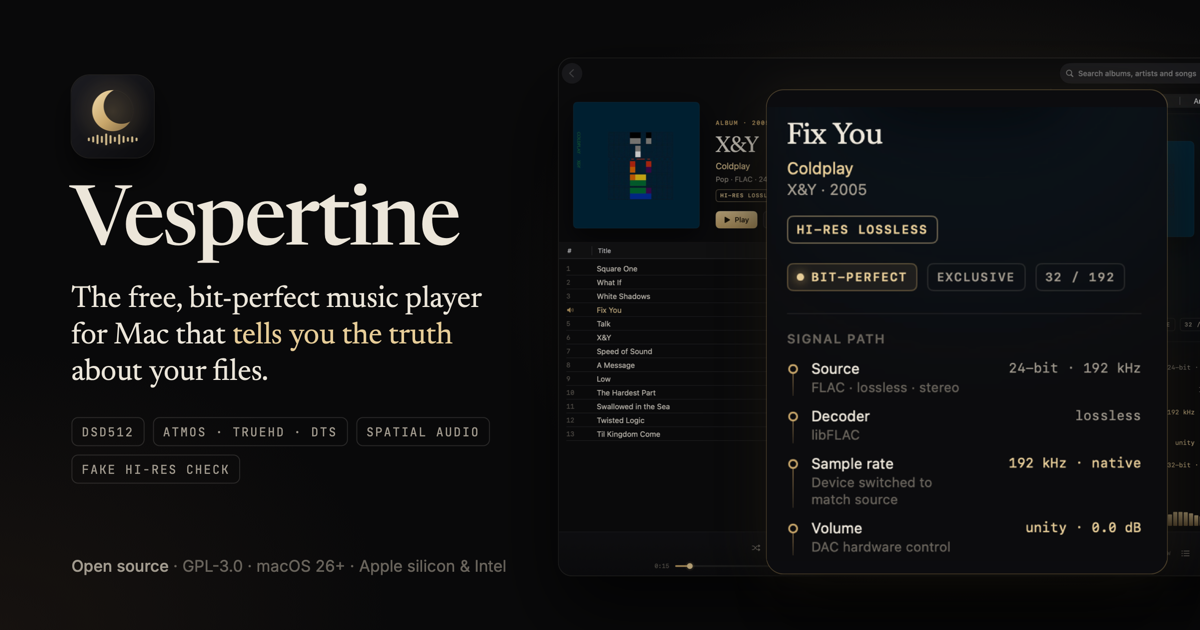
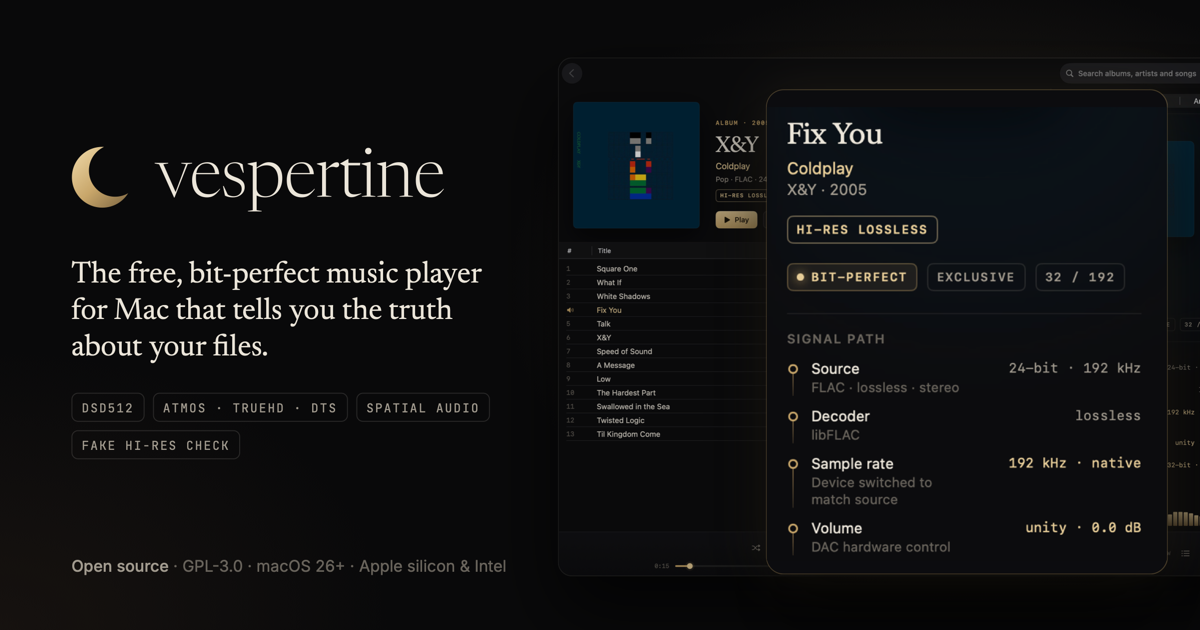
Adopt the brand lockup across the README, website, social cards and tour
- The README header is the lockup (crescent + "vespertine"), with
  logo-on-light.svg for GitHub's light theme and logo.svg for dark.
- Website: the lockup is in the header of every page. The hero headline is
  Newsreader Light, the brand's display weight, and is ivory, so the Download
  button is the view's one brass accent, as the guide asks.
- The social cards lead with the lockup, enlarged and aligned on the crescent.
  Their tagline is ivory now.
- The tour's closing card uses the lockup instead of the app icon and the
  typed name.
- The Newsreader faces declare 300–500. The self-hosted file is the full
  variable font, so Light was already in it.

Changed region(s): [[0.0617, 0.1206, 0.4008, 0.6032], [0.0617, 0.6333, 0.2775, 0.754], [0.3083, 0.6333, 0.4008, 0.6937]]

diff --git a/site/style.css b/site/style.css
@@ -1,7 +1,7 @@
 /* Vespertine site. The brand fonts (Newsreader, Inter, JetBrains Mono; SIL Open Font License) are self-hosted,
    so the site looks the same everywhere and makes no third-party requests apart from GitHub's API for the
    latest version. */
-@font-face { font-family: "Newsreader"; font-weight: 400 500; font-display: swap; src: url(assets/fonts/Newsreader.woff2) format("woff2"); unicode-range: U+0000-00FF, U+0131, U+0152-0153, U+02BB-02BC, U+02C6, U+02DA, U+02DC, U+0304, U+0308, U+0329, U+2000-206F, U+20AC, U+2122, U+2191, U+2193, U+2212, U+2215, U+FEFF, U+FFFD; }
+@font-face { font-family: "Newsreader"; font-weight: 300 500; font-display: swap; src: url(assets/fonts/Newsreader.woff2) format("woff2"); unicode-range: U+0000-00FF, U+0131, U+0152-0153, U+02BB-02BC, U+02C6, U+02DA, U+02DC, U+0304, U+0308, U+0329, U+2000-206F, U+20AC, U+2122, U+2191, U+2193, U+2212, U+2215, U+FEFF, U+FFFD; }
 @font-face { font-family: "Inter"; font-weight: 400 600; font-display: swap; src: url(assets/fonts/Inter.woff2) format("woff2"); unicode-range: U+0000-00FF, U+0131, U+0152-0153, U+02BB-02BC, U+02C6, U+02DA, U+02DC, U+0304, U+0308, U+0329, U+2000-206F, U+20AC, U+2122, U+2191, U+2193, U+2212, U+2215, U+FEFF, U+FFFD; }
 @font-face { font-family: "JetBrains Mono"; font-weight: 400 500; font-display: swap; src: url(assets/fonts/JetBrainsMono.woff2) format("woff2"); unicode-range: U+0000-00FF, U+0131, U+0152-0153, U+02BB-02BC, U+02C6, U+02DA, U+02DC, U+0304, U+0308, U+0329, U+2000-206F, U+20AC, U+2122, U+2191, U+2193, U+2212, U+2215, U+FEFF, U+FFFD; }
 
@@ -37,8 +37,9 @@ header.nav {
   background: rgba(9, 9, 10, 0.72); border-bottom: 1px solid var(--hair);
 }
 .nav .wrap { display: flex; align-items: center; gap: 28px; height: 58px; }
-.brand { display: flex; align-items: center; gap: 10px; color: var(--text); font: 500 19px/1 var(--serif); }
-.brand img { width: 28px; height: 28px; border-radius: 7px; }
+.brand { display: flex; align-items: center; }
+/* The brand lockup; its SVG carries clear space, so pull it back to the column edge. */
+.brand img { height: 44px; width: auto; margin-left: -11px; }
 .brand:hover { text-decoration: none; }
 .nav nav { display: flex; gap: 22px; margin-left: auto; font-size: 14.5px; }
 .nav nav a { color: var(--text2); }
@@ -63,9 +64,9 @@ header.nav {
 }
 .hero-icon { width: 104px; height: 104px; margin: 0 auto 30px; border-radius: 23px; box-shadow: 0 0 0 1px var(--hair2), 0 24px 48px rgba(0,0,0,.6); }
 .hero h1 {
-  position: relative; font: 500 clamp(44px, 7.4vw, 82px)/1.02 var(--serif); letter-spacing: -0.02em; margin: 0 auto; max-width: 900px;
+  position: relative; font: 300 clamp(46px, 7.8vw, 88px)/1.02 var(--serif); letter-spacing: -0.02em; margin: 0 auto; max-width: 920px;
 }
-.hero h1 em { font-style: normal; color: var(--brassHi); }
+.hero h1 em { font-style: normal; color: var(--text); }
 .hero .lede { position: relative; max-width: 700px; margin: 24px auto 0; color: var(--text2); font-size: clamp(17px, 2vw, 19.5px); }
 .cta { position: relative; display: flex; gap: 12px; justify-content: center; flex-wrap: wrap; margin-top: 34px; }
 .fine { position: relative; margin-top: 16px; color: var(--text3); font-size: 13.5px; }

diff --git a/docs/design/social-preview.html b/docs/design/social-preview.html
@@ -6,7 +6,7 @@
 <meta charset="utf-8">
 <style>
   /* Open fonts only (docs/design/fonts): Apple's New York and SF are licensed for interface mock-ups, not artwork. */
-  @font-face { font-family: "Newsreader"; font-weight: 400 500; src: url(../../site/assets/fonts/Newsreader.woff2) format("woff2"); }
+  @font-face { font-family: "Newsreader"; font-weight: 300 500; src: url(../../site/assets/fonts/Newsreader.woff2) format("woff2"); }
   @font-face { font-family: "Inter"; font-weight: 400 600; src: url(../../site/assets/fonts/Inter.woff2) format("woff2"); }
   @font-face { font-family: "JetBrains Mono"; font-weight: 400 500; src: url(../../site/assets/fonts/JetBrainsMono.woff2) format("woff2"); }
   :root {
@@ -24,14 +24,12 @@
   }
 
   /* Left: name and promise */
-  .copy { position: absolute; left: 76px; top: 64px; width: 500px; }
-  .icon { width: 88px; height: 88px; display: block; margin: 0 0 28px; border-radius: 20px;
-          box-shadow: 0 0 0 1px rgba(236,230,218,.10), 0 18px 34px rgba(0,0,0,.6); }
-  h1 { font-family: "Newsreader", serif; font-weight: 500; font-size: 88px;
-       letter-spacing: -1.8px; margin: 0; line-height: 1; }
+  .copy { position: absolute; left: 76px; top: 106px; width: 500px; }
+  /* The brand lockup (docs/brand/logo.svg): crescent + "vespertine" in Newsreader Light, outlined. */
+  .lockup { display: block; height: 138px; margin: 0 0 0 -34px; } /* the SVG carries clear space; -34 px puts the crescent on the text edge */
   .lede { font-family: "Newsreader", serif; font-size: 32px; line-height: 1.22;
-          margin: 16px 0 0; max-width: 470px; }
-  .lede em { font-style: normal; color: var(--brassHi); }
+          margin: 14px 0 0; max-width: 470px; }
+  .lede em { font-style: normal; }
   .chips { margin-top: 28px; display: flex; flex-wrap: wrap; gap: 9px; width: 470px; }
   .chip {
     font-family: "JetBrains Mono", monospace; font-size: 13px; letter-spacing: 1.5px;
@@ -61,8 +59,7 @@
 <body>
   <div class="card">
     <div class="copy">
-      <img class="icon" src="../../site/assets/icon-512.png" alt="">
-      <h1>Vespertine</h1>
+      <img class="lockup" src="../brand/logo.svg" alt="vespertine">
       <p class="lede">The free, bit-perfect music player for Mac that <em>tells you the truth</em> about your&nbsp;files.</p>
       <div class="chips">
         <span class="chip">DSD512</span>

diff --git a/scripts/make-tour.swift b/scripts/make-tour.swift
@@ -46,7 +46,7 @@ let shots: [Shot] = [
          caption: "Catches upsampled, lossy-sourced and “AI-enhanced” files"),
 ]
 let images = shots.map { image($0.file) }
-let icon = image("site/assets/icon-512.png")
+let lockup = image("docs/brand/logo.png")   // crescent + "vespertine", with its clear space
 
 let hold = 4.2, fade = 0.5, endHold = 3.4
 let shotStep = hold - fade
@@ -136,14 +136,9 @@ func drawEndCard(alpha: CGFloat) {
     let glow = CGGradient(colorsSpace: space, colors: [color(0xC8A66A, 0.16), color(0xC8A66A, 0)] as CFArray, locations: [0, 1])!
     ctx.drawRadialGradient(glow, startCenter: CGPoint(x: W / 2, y: Int(Double(H) * 0.58)), startRadius: 0,
                            endCenter: CGPoint(x: W / 2, y: Int(Double(H) * 0.58)), endRadius: 460 * scale, options: [])
-    let side = 132 * scale
-    let iconRect = CGRect(x: (CGFloat(W) - side) / 2, y: CGFloat(H) - 150 * scale - side, width: side, height: side)
-    ctx.saveGState()
-    ctx.addPath(CGPath(roundedRect: iconRect, cornerWidth: side * 0.225, cornerHeight: side * 0.225, transform: nil))
-    ctx.clip(); ctx.draw(icon, in: iconRect)
-    ctx.restoreGState()
-    _ = draw("Vespertine", font: serif(76, .medium), color: color(0xECE6DA), centerX: CGFloat(W) / 2, baselineFromTop: 400 * scale, kern: -1 * scale)
-    _ = draw("The free, bit-perfect music player for Mac", font: serif(30), color: color(0xE7CD98), centerX: CGFloat(W) / 2, baselineFromTop: 462 * scale)
+    let lockupW = 640 * scale, lockupH = lockupW * CGFloat(lockup.height) / CGFloat(lockup.width)
+    ctx.draw(lockup, in: CGRect(x: (CGFloat(W) - lockupW) / 2, y: CGFloat(H) - 196 * scale - lockupH, width: lockupW, height: lockupH))
+    _ = draw("The free, bit-perfect music player for Mac", font: serif(30), color: color(0xECE6DA), centerX: CGFloat(W) / 2, baselineFromTop: 470 * scale)
     let mono = openFont("JetBrains Mono", 17, weight: 400)
     _ = draw("OPEN SOURCE · GPL-3.0 · MACOS 26+", font: mono, color: color(0xA29B8F), centerX: CGFloat(W) / 2, baselineFromTop: 540 * scale, kern: 2 * scale)
     _ = draw("github.com/szeremeta1/Vespertine", font: openFont("Inter", 20, weight: 500), color: color(0xC8A66A), centerX: CGFloat(W) / 2, baselineFromTop: 590 * scale)

diff --git a/site/privacy.html b/site/privacy.html
@@ -32,7 +32,7 @@
 <body>
 <header class="nav">
   <div class="wrap">
-    <a class="brand" href="./"><img src="assets/favicon-64.png" alt="">Vespertine</a>
+    <a class="brand" href="./"><img src="assets/logo.svg" alt="Vespertine" width="149" height="44"></a>
     <nav><a href="./#features">Features</a><a href="./#faq">FAQ</a><a href="https://github.com/szeremeta1/Vespertine">GitHub</a></nav>
     <a class="btn btn-brass btn-small" href="https://github.com/szeremeta1/Vespertine/releases/latest">Download</a>
   </div>

diff --git a/site/terms.html b/site/terms.html
@@ -32,7 +32,7 @@
 <body>
 <header class="nav">
   <div class="wrap">
-    <a class="brand" href="./"><img src="assets/favicon-64.png" alt="">Vespertine</a>
+    <a class="brand" href="./"><img src="assets/logo.svg" alt="Vespertine" width="149" height="44"></a>
     <nav><a href="./#features">Features</a><a href="./#faq">FAQ</a><a href="https://github.com/szeremeta1/Vespertine">GitHub</a></nav>
     <a class="btn btn-brass btn-small" href="https://github.com/szeremeta1/Vespertine/releases/latest">Download</a>
   </div>

diff --git a/site/index.html b/site/index.html
@@ -47,7 +47,7 @@
 
 <header class="nav">
   <div class="wrap">
-    <a class="brand" href="#top"><img src="assets/favicon-64.png" alt="">Vespertine</a>
+    <a class="brand" href="#top"><img src="assets/logo.svg" alt="Vespertine" width="149" height="44"></a>
     <nav>
       <a href="#features">Features</a>
       <a href="#formats">Formats</a>

diff --git a/README.md b/README.md
@@ -1,8 +1,9 @@
 <p align="center">
-  <img src="docs/logo.png" width="128" height="128" alt="Vespertine app icon">
+  <picture>
+    <source media="(prefers-color-scheme: dark)" srcset="docs/brand/logo.svg">
+    <img src="docs/brand/logo-on-light.svg" width="440" alt="Vespertine">
+  </picture>
 </p>
-
-<h1 align="center">Vespertine</h1>
 
 <p align="center">
   <strong>A free, open-source, bit-perfect music player for macOS.</strong><br>
